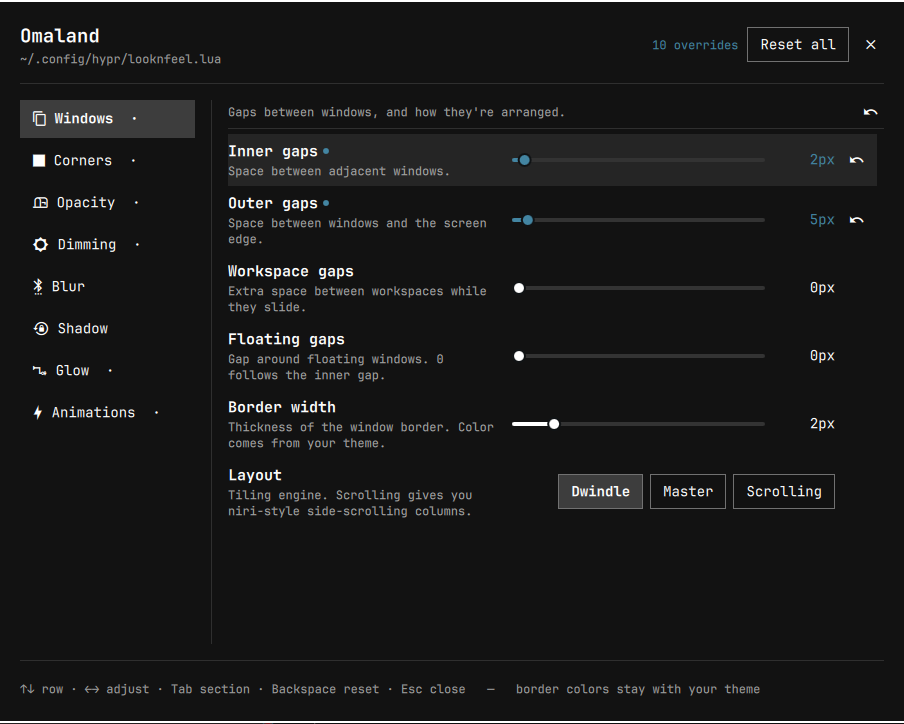
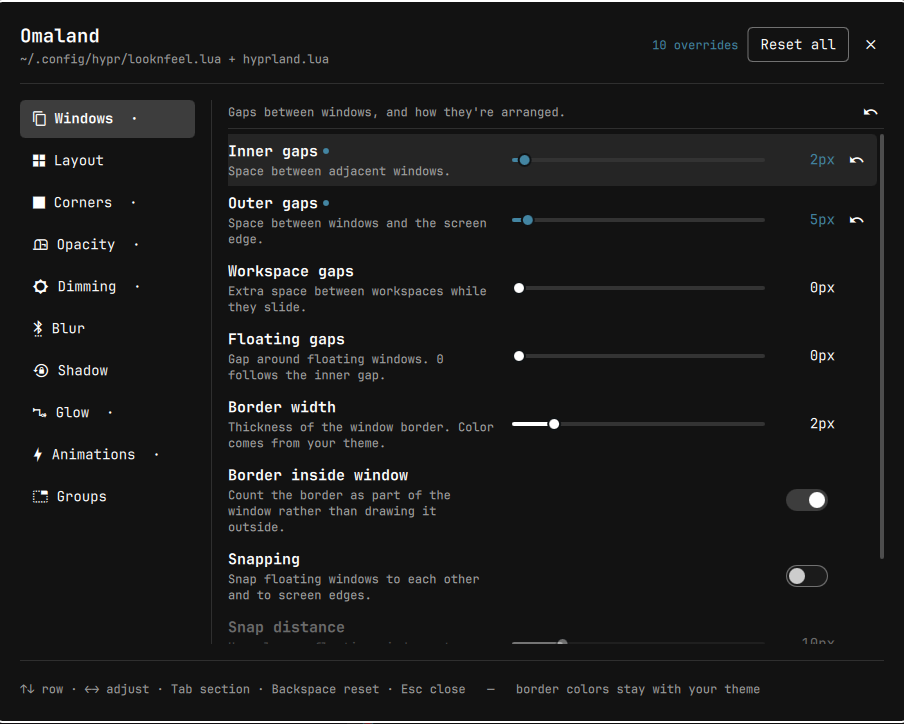
Add layout, snap, groupbar and dimming options
Twenty-odd more hl.config options in the same managed block, plus two new
sections: Layout (the tiling engine and its knobs) and Groups (group bar
geometry). Group bar colors stay with the theme.

`needs` now takes an optional `needsValue`. A plain `needs` still dims its row
when a boolean dependency is off; `needs` + `needsValue` matches an enum and
drops the row entirely, so Layout shows only the active engine's knobs rather
than three greyed-out sets.

Enums can be numeric (dwindle:force_split is 0/1/2), which renders unquoted.
The test suite's color guard now matches path segments, since
scrolling:column_width contains the substring "col".

Claude-Session: https://claude.ai/code/session_01TKviNjGWyPLYcSomxT2sDQ

diff --git a/Schema.js b/Schema.js
@@ -51,12 +51,66 @@ var SECTIONS = [
            { min: 0, max: 40, unit: "px" }),
       item("general:border_size", "Border width", "Thickness of the window border. Color comes from your theme.", "int",
            { min: 0, max: 12, unit: "px" }),
-      item("general:layout", "Layout", "Tiling engine. Scrolling gives you niri-style side-scrolling columns.", "enum",
+      item("decoration:border_part_of_window", "Border inside window", "Count the border as part of the window rather than drawing it outside.", "bool"),
+      item("general:snap:enabled", "Snapping", "Snap floating windows to each other and to screen edges.", "bool"),
+      item("general:snap:window_gap", "Snap distance", "How close a floating window gets before it snaps to another.", "int",
+           { min: 0, max: 50, unit: "px", needs: "general:snap:enabled" }),
+      item("general:snap:monitor_gap", "Snap to edges", "How close a floating window gets before it snaps to a screen edge.", "int",
+           { min: 0, max: 50, unit: "px", needs: "general:snap:enabled" })
+    ]
+  },
+  {
+    id: "layout",
+    icon: "",
+    title: "Layout",
+    blurb: "The tiling engine, and the knobs belonging to whichever one is active.",
+    items: [
+      item("general:layout", "Engine", "Scrolling gives you niri-style side-scrolling columns.", "enum",
            { options: [
                { value: "dwindle", label: "Dwindle" },
                { value: "master", label: "Master" },
                { value: "scrolling", label: "Scrolling" }
-             ] })
+             ] }),
+
+      item("dwindle:preserve_split", "Preserve split", "Keep the split direction when a window closes.", "bool",
+           { needs: "general:layout", needsValue: "dwindle" }),
+      item("dwindle:smart_split", "Smart split", "Pick the split direction from where in the window you drop.", "bool",
+           { needs: "general:layout", needsValue: "dwindle" }),
+      item("dwindle:force_split", "Split side", "Where a new window lands.", "enum",
+           { numeric: true, needs: "general:layout", needsValue: "dwindle",
+             options: [
+               { value: 0, label: "Cursor" },
+               { value: 1, label: "Before" },
+               { value: 2, label: "After" }
+             ] }),
+      item("dwindle:split_width_multiplier", "Split bias", "Above 1.0 favours splitting side by side.", "float",
+           { min: 0.5, max: 2.0, step: 0.05, decimals: 2, needs: "general:layout", needsValue: "dwindle" }),
+      item("dwindle:default_split_ratio", "Split ratio", "Size of a new split relative to its sibling.", "float",
+           { min: 0.5, max: 1.5, step: 0.05, decimals: 2, needs: "general:layout", needsValue: "dwindle" }),
+
+      item("master:mfact", "Master size", "Fraction of the screen the master window takes.", "float",
+           { min: 0.1, max: 0.9, step: 0.01, decimals: 2, needs: "general:layout", needsValue: "master" }),
+      item("master:orientation", "Master side", "Which edge the master window occupies.", "enum",
+           { needs: "general:layout", needsValue: "master",
+             options: [
+               { value: "left", label: "Left" },
+               { value: "right", label: "Right" },
+               { value: "top", label: "Top" },
+               { value: "bottom", label: "Bottom" },
+               { value: "center", label: "Center" }
+             ] }),
+      item("master:new_status", "New windows", "Where a newly opened window goes.", "enum",
+           { needs: "general:layout", needsValue: "master",
+             options: [
+               { value: "master", label: "Master" },
+               { value: "slave", label: "Slave" },
+               { value: "inherit", label: "Inherit" }
+             ] }),
+
+      item("scrolling:column_width", "Column width", "Fraction of the screen one column takes. 0.97 shows one at a time.", "float",
+           { min: 0.2, max: 1.0, step: 0.01, decimals: 2, needs: "general:layout", needsValue: "scrolling" }),
+      item("scrolling:fullscreen_on_one_column", "Fill on one column", "Let a lone column use the whole screen.", "bool",
+           { needs: "general:layout", needsValue: "scrolling" })
     ]
   },
   {
@@ -102,7 +156,8 @@ var SECTIONS = [
       item("decoration:dim_special", "Special workspace dim", "Dimming applied behind a special workspace.", "float",
            { min: 0.0, max: 1.0, step: 0.01, decimals: 2 }),
       item("decoration:dim_around", "Dim around", "Dimming behind windows using the dimaround window rule.", "float",
-           { min: 0.0, max: 1.0, step: 0.01, decimals: 2 })
+           { min: 0.0, max: 1.0, step: 0.01, decimals: 2 }),
+      item("decoration:dim_modal", "Dim behind modals", "Darken a window while one of its dialogs is open.", "bool")
     ]
   },
   {
@@ -173,7 +228,34 @@ var SECTIONS = [
       item("animations:enabled", "Animations", "Master switch for every animation.", "bool"),
       item(ANIMATION_SPEED_KEY, "Speed", "1.0x is stock Omarchy. Higher is faster.", "float",
            { min: 0.25, max: 3.0, step: 0.05, decimals: 2, unit: "x",
-             synthetic: true, fallback: 1.0, needs: "animations:enabled" })
+             synthetic: true, fallback: 1.0, needs: "animations:enabled" }),
+      item("animations:workspace_wraparound", "Wrap workspaces", "Slide the short way when moving between the first and last workspace.", "bool",
+           { needs: "animations:enabled" })
+    ]
+  },
+  {
+    id: "groups",
+    icon: "",
+    title: "Groups",
+    blurb: "The tab bar on grouped windows. Its colors come from your theme.",
+    items: [
+      item("group:groupbar:enabled", "Group bar", "Show the tab strip on grouped windows.", "bool"),
+      item("group:groupbar:height", "Height", "Height of the tab strip.", "int",
+           { min: 0, max: 40, unit: "px", needs: "group:groupbar:enabled" }),
+      item("group:groupbar:font_size", "Font size", "Size of the tab titles.", "int",
+           { min: 6, max: 24, unit: "px", needs: "group:groupbar:enabled" }),
+      item("group:groupbar:render_titles", "Show titles", "Draw window titles in the tabs.", "bool",
+           { needs: "group:groupbar:enabled" }),
+      item("group:groupbar:indicator_height", "Indicator height", "Thickness of the active-tab indicator.", "int",
+           { min: 0, max: 12, unit: "px", needs: "group:groupbar:enabled" }),
+      item("group:groupbar:rounding", "Rounding", "Corner radius of the tabs.", "int",
+           { min: 0, max: 20, unit: "px", needs: "group:groupbar:enabled" }),
+      item("group:groupbar:gradients", "Gradients", "Fade the tab backgrounds.", "bool",
+           { needs: "group:groupbar:enabled" }),
+      item("group:groupbar:stacked", "Stacked", "Lay the tabs out vertically.", "bool",
+           { needs: "group:groupbar:enabled" }),
+      item("group:groupbar:disable_when_only", "Hide when alone", "Hide the strip when the group has one window.", "bool",
+           { needs: "group:groupbar:enabled" })
     ]
   }
 ]
@@ -207,7 +289,7 @@ function quantize(item, value) {
   // on an enum's name, and Number("dwindle") is NaN, which then writes
   // layout = 0. Hyprland accepts a layout named "0" without a config error.
   if (item.type === "bool") return value === true
-  if (item.type === "enum") return String(value)
+  if (item.type === "enum") return item.numeric ? Number(value) : String(value)
 
   var n = Number(value)
   if (!isFinite(n)) return 0

diff --git a/Panel.qml b/Panel.qml
@@ -56,6 +56,19 @@ Item {
   property string fontFamily: Style.font.menuFamily
 
   readonly property var section: Schema.SECTIONS[Math.max(0, Math.min(Schema.SECTIONS.length - 1, sectionIndex))]
+  // A `needs` on a bool dims its row; a `needs` + `needsValue` on an enum drops
+  // it, so the Layout section only ever shows the active engine's knobs instead
+  // of three greyed-out sets.
+  readonly property var rows: {
+    var out = []
+    for (var i = 0; i < section.items.length; i++) {
+      var entry = section.items[i]
+      if (entry.needsValue === undefined) { out.push(entry); continue }
+      var dep = Schema.itemFor(entry.needs)
+      if (!dep || String(valueFor(dep)) === String(entry.needsValue)) out.push(entry)
+    }
+    return out
+  }
   readonly property int overrideCount: Object.keys(overrides).length
   readonly property bool sectionModified: {
     for (var i = 0; i < section.items.length; i++)
@@ -179,7 +192,7 @@ Item {
 
   function isAvailable(item) {
     if (item.key === Schema.ANIMATION_SPEED_KEY && root.animationBaseline.length === 0) return false
-    if (!item.needs) return true
+    if (!item.needs || item.needsValue !== undefined) return true
     var dep = Schema.itemFor(item.needs)
     return dep ? valueFor(dep) === true : true
   }
@@ -283,7 +296,7 @@ Item {
   // ------------------------------------------------------------- keyboard
 
   function moveCursor(delta) {
-    var count = root.section.items.length
+    var count = root.rows.length
     if (count === 0) return
     root.cursorIndex = (root.cursorIndex + delta + count) % count
     rows.positionViewAtIndex(root.cursorIndex, ListView.Contain)
@@ -297,9 +310,8 @@ Item {
   }
 
   function cursorItem() {
-    var items = root.section.items
-    if (root.cursorIndex < 0 || root.cursorIndex >= items.length) return null
-    return items[root.cursorIndex]
+    if (root.cursorIndex < 0 || root.cursorIndex >= root.rows.length) return null
+    return root.rows[root.cursorIndex]
   }
 
   function nudge(direction) {
@@ -670,7 +682,7 @@ Item {
               Layout.fillWidth: true
               Layout.fillHeight: true
               clip: true
-              model: root.section.items
+              model: root.rows
               boundsBehavior: Flickable.StopAtBounds
               currentIndex: root.cursorIndex
               onModelChanged: root.cursorIndex = 0

diff --git a/test/run.js b/test/run.js
@@ -79,11 +79,28 @@ check("every item has a unique key", (function() {
   })
 })())
 
-check("every `needs` points at a real bool", Schema.allItems().every(function(i) {
-  if (!i.needs) return true
+// A plain `needs` dims the row and must name a bool; `needs` + `needsValue`
+// hides it and must name an enum that actually offers that value.
+check("every plain `needs` points at a real bool", Schema.allItems().every(function(i) {
+  if (!i.needs || i.needsValue !== undefined) return true
   const dep = Schema.itemFor(i.needs)
   return dep && dep.type === "bool"
 }))
+check("every `needsValue` names a real option of a real enum", Schema.allItems().every(function(i) {
+  if (i.needsValue === undefined) return true
+  const dep = Schema.itemFor(i.needs)
+  if (!dep || dep.type !== "enum") return false
+  return (dep.options || []).some(function(o) { return String(o.value) === String(i.needsValue) })
+}))
+
+const forceSplit = Schema.itemFor("dwindle:force_split")
+eq("numeric enum stays a number", Schema.quantize(forceSplit, "2"), 2)
+check("numeric enum renders unquoted",
+      Lua.renderConfigBody({ "dwindle:force_split": 2 }, baseline).indexOf("force_split = 2,") !== -1)
+eq("numeric enum round trips",
+   Lua.parseOverrides(Lua.applyBlock("", Lua.renderConfigBody({ "dwindle:force_split": 0 }, baseline)))["dwindle:force_split"], 0)
+check("string enums still quote",
+      Lua.renderConfigBody({ "master:orientation": "top" }, baseline).indexOf('orientation = "top"') !== -1)
 
 // hyprctl is asked only about real options; synthetics are backed by emitted
 // Lua and must stay out of the getoption batch.
@@ -95,8 +112,14 @@ check("every non-synthetic key is queried",
 eq("queryKeys covers exactly the real options",
    Schema.queryKeys().length, Schema.allItems().length - 2)
 
+// Hyprland spells colors as a `col` path segment (general:col:active_border,
+// group:groupbar:col:active) or a segment containing "color"
+// (decoration:shadow:color, group:groupbar:text_color). Matched per segment so
+// scrolling:column_width isn't a false positive.
 check("no color options are exposed", Schema.allItems().every(function(i) {
-  return i.key.indexOf("col") === -1 && i.key.indexOf("color") === -1
+  return i.key.split(":").every(function(seg) {
+    return seg !== "col" && seg.indexOf("color") === -1
+  })
 }))
 
 console.log("\nLua rendering")

diff --git a/README.md b/README.md
@@ -18,14 +18,16 @@ omarchy-shell shell toggle omaland      # from anywhere
 
 | Section | Options |
 |---|---|
-| **Windows** | `gaps_in`, `gaps_out`, `gaps_workspaces`, `float_gaps`, `border_size`, `layout` |
+| **Windows** | `gaps_in`, `gaps_out`, `gaps_workspaces`, `float_gaps`, `border_size`, `border_part_of_window`, `snap:enabled`, `snap:window_gap`, `snap:monitor_gap` |
+| **Layout** | `general:layout`, plus the active engine's own knobs — `dwindle:*`, `master:*` or `scrolling:*`. The other engines' rows are hidden, not greyed out. |
 | **Corners** | `rounding`, `rounding_power` |
 | **Opacity** | Full opacity switch, `active_opacity`, `inactive_opacity`, `fullscreen_opacity` |
-| **Dimming** | `dim_inactive`, `dim_strength`, `dim_special`, `dim_around` |
+| **Dimming** | `dim_inactive`, `dim_strength`, `dim_special`, `dim_around`, `dim_modal` |
 | **Blur** | `enabled`, `size`, `passes`, `noise`, `contrast`, `brightness`, `vibrancy`, `vibrancy_darkness`, `xray`, `special`, `popups` |
 | **Shadow** | `enabled`, `range`, `render_power`, `scale`, `sharp` |
 | **Glow** | `enabled`, `range`, `render_power` |
-| **Animations** | `enabled`, plus a speed multiplier over Omarchy's shipped animation set |
+| **Animations** | `enabled`, `workspace_wraparound`, plus a speed multiplier over Omarchy's shipped animation set |
+| **Groups** | Group bar geometry: `enabled`, `height`, `font_size`, `render_titles`, `indicator_height`, `rounding`, `gradients`, `stacked`, `disable_when_only`. Its `col:*` and `text_color*` keys stay with the theme. |
 
 ### What it deliberately does not edit
 
